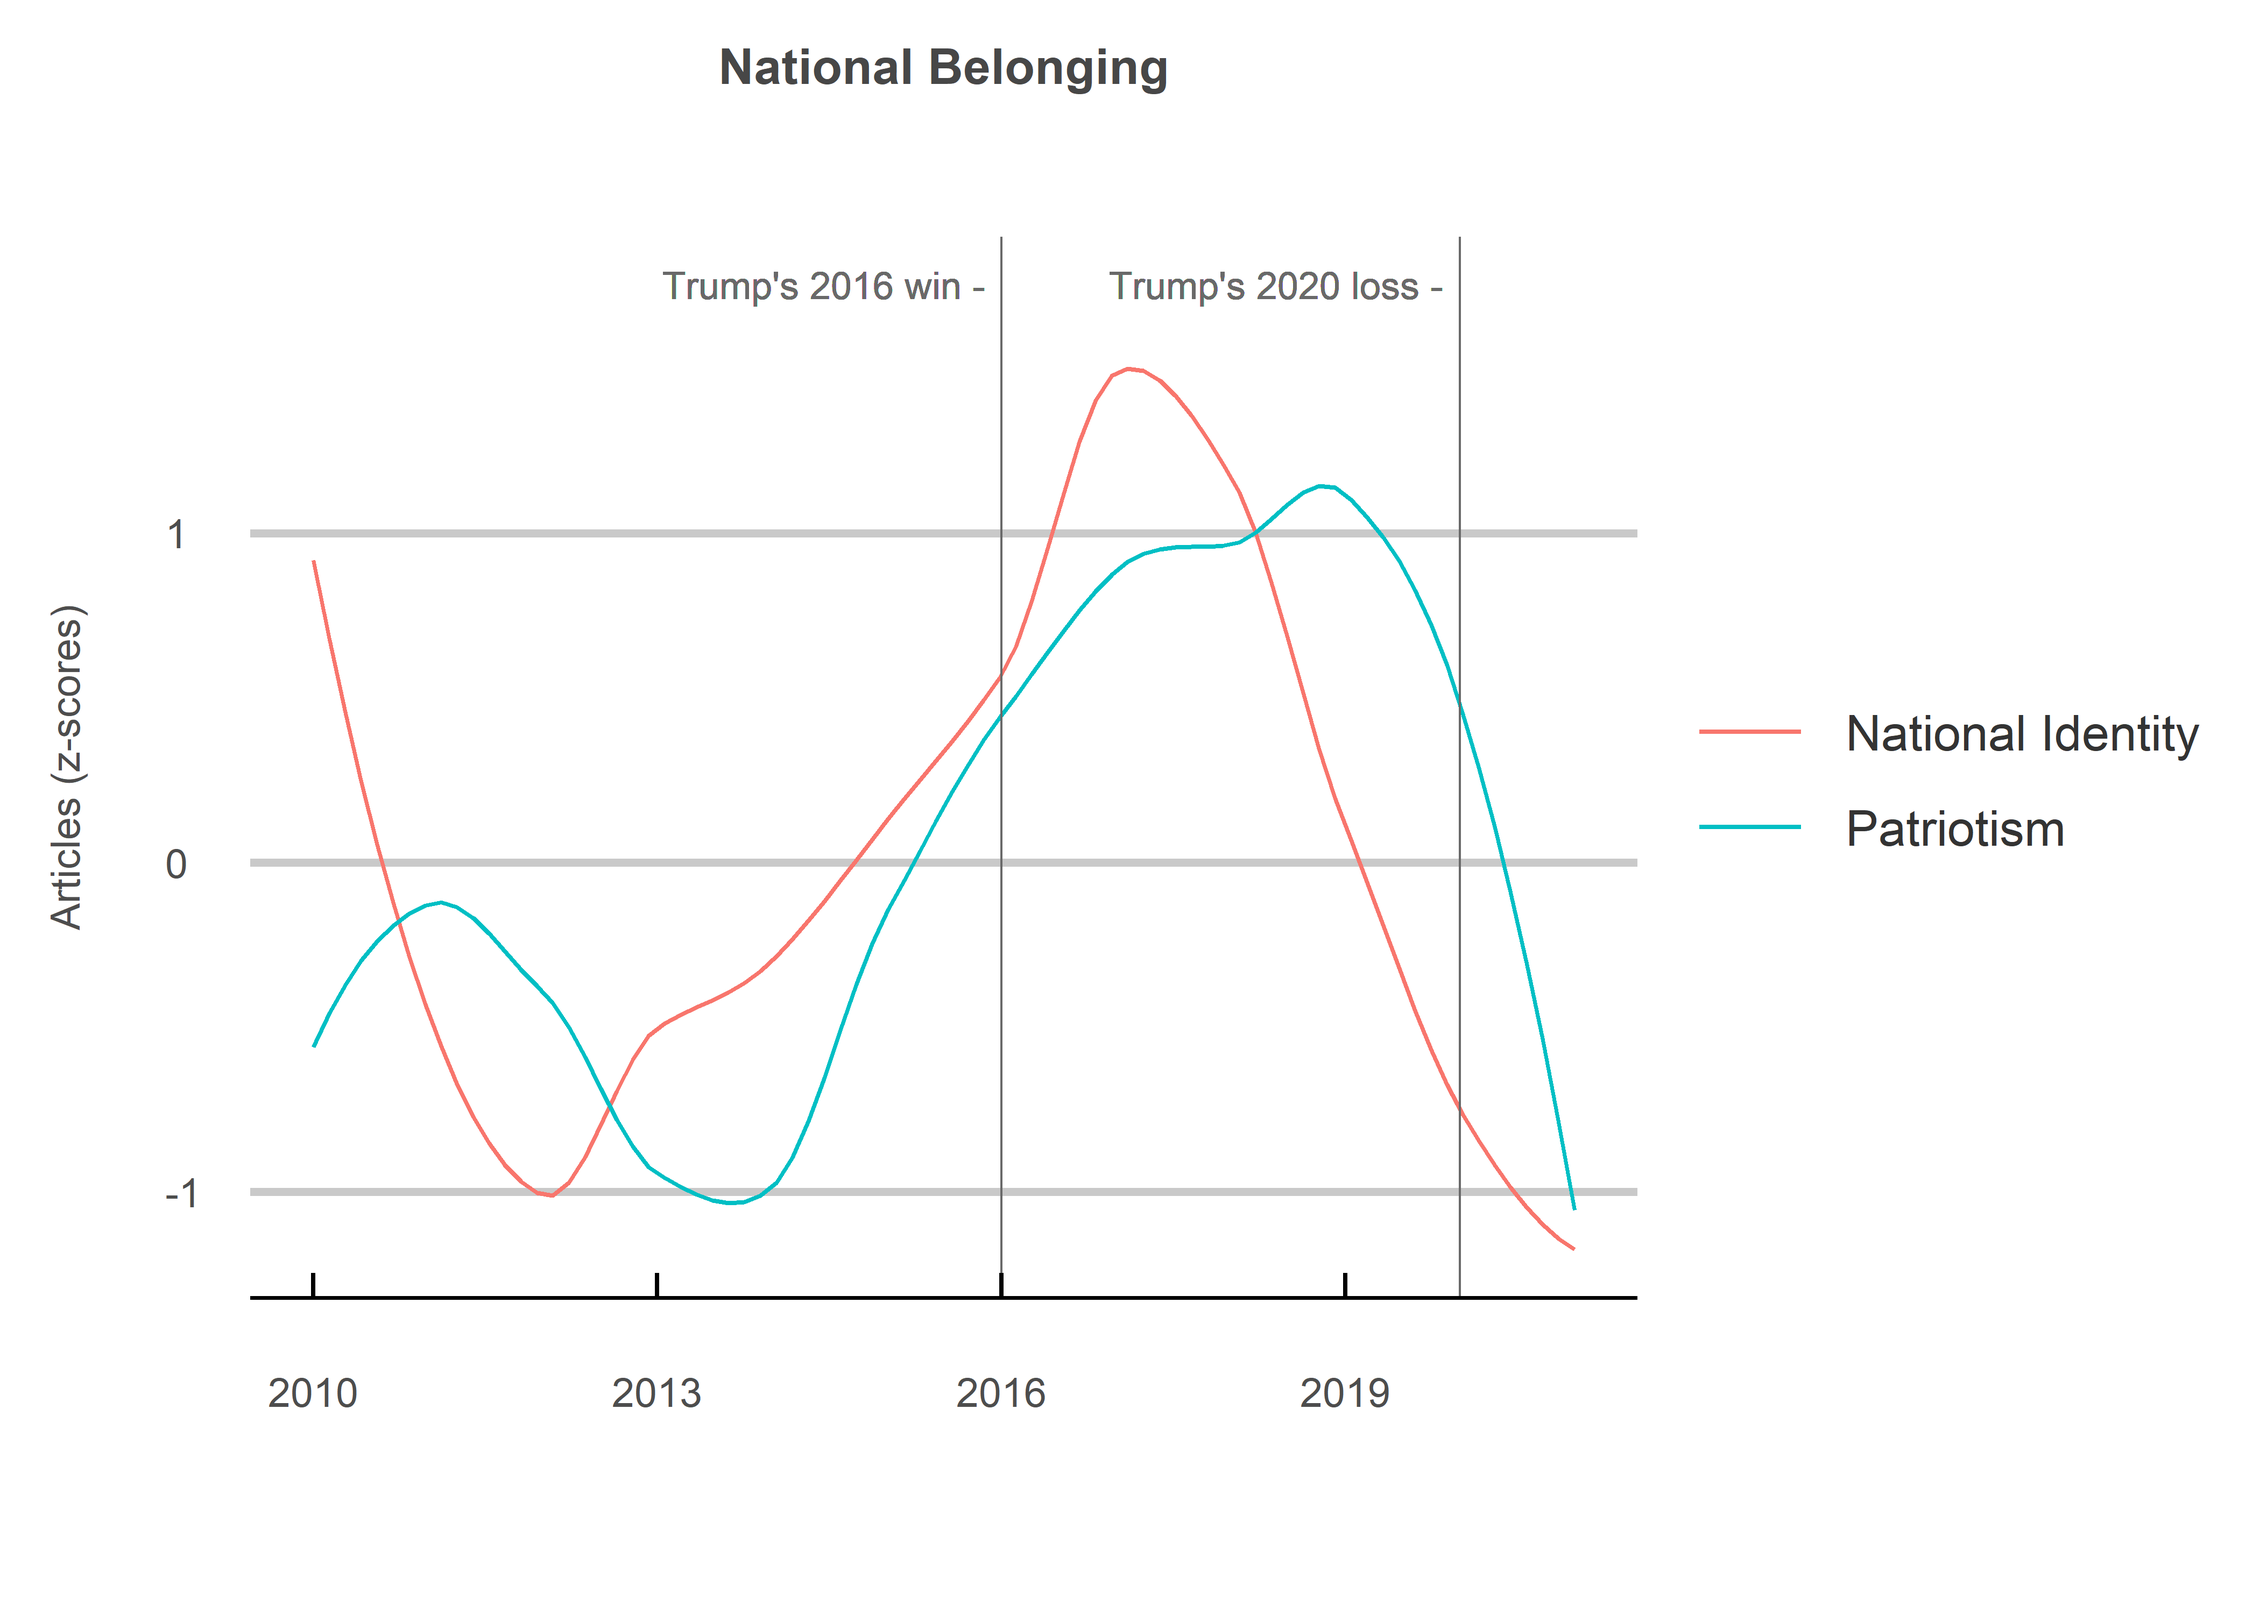
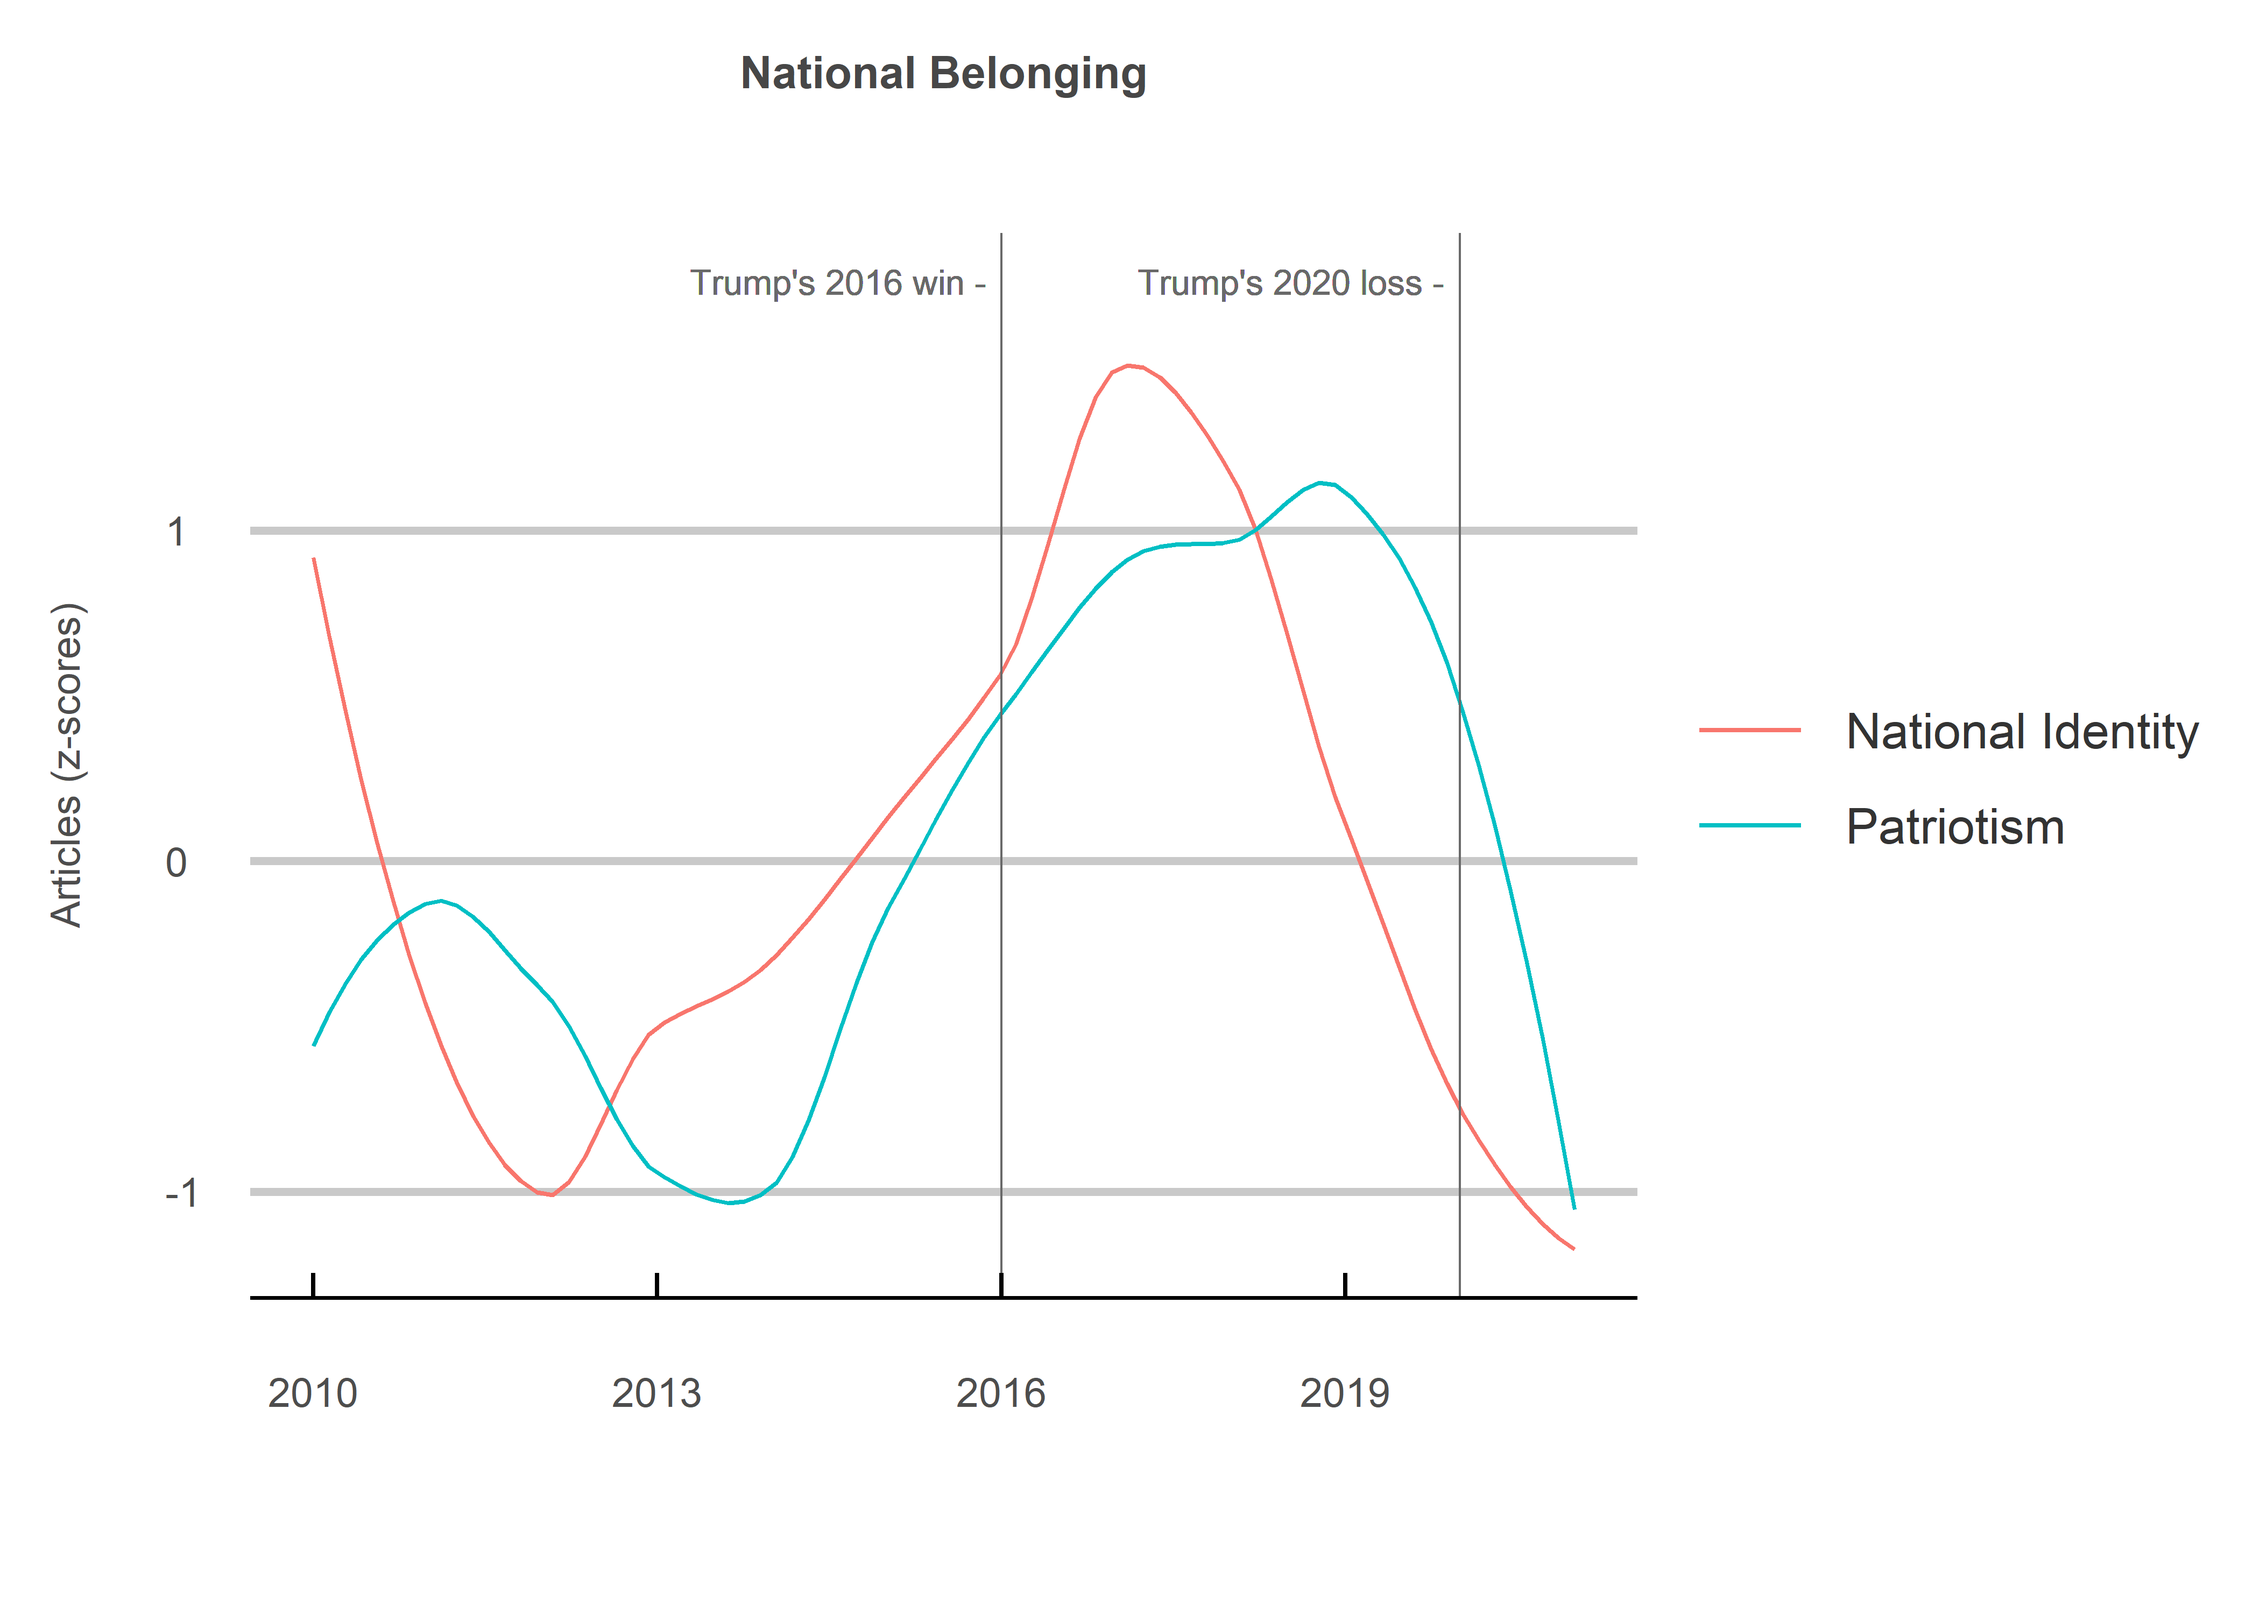
updating files

diff --git a/The-Good-the-Bad-and-the-Ugly.md b/The-Good-the-Bad-and-the-Ugly.md
@@ -100,7 +100,7 @@ make_plot <- function(category, title) {
                   label="Trump's 2016 win -", 
                   y=max(z_score)+0.1,
                   hjust=1.05),
-              size=3,
+              size=2.75,
               col="#696969") +
     geom_vline(xintercept = 2020,
                size=0.25,
@@ -109,7 +109,7 @@ make_plot <- function(category, title) {
                   label="Trump's 2020 loss -",
                   y=max(z_score)+0.1,
                   hjust=1.05),
-              size=3,
+              size=2.75,
               col="#696969") +
     ggtitle(title) +
     ylab("Articles (z-scores)") +
